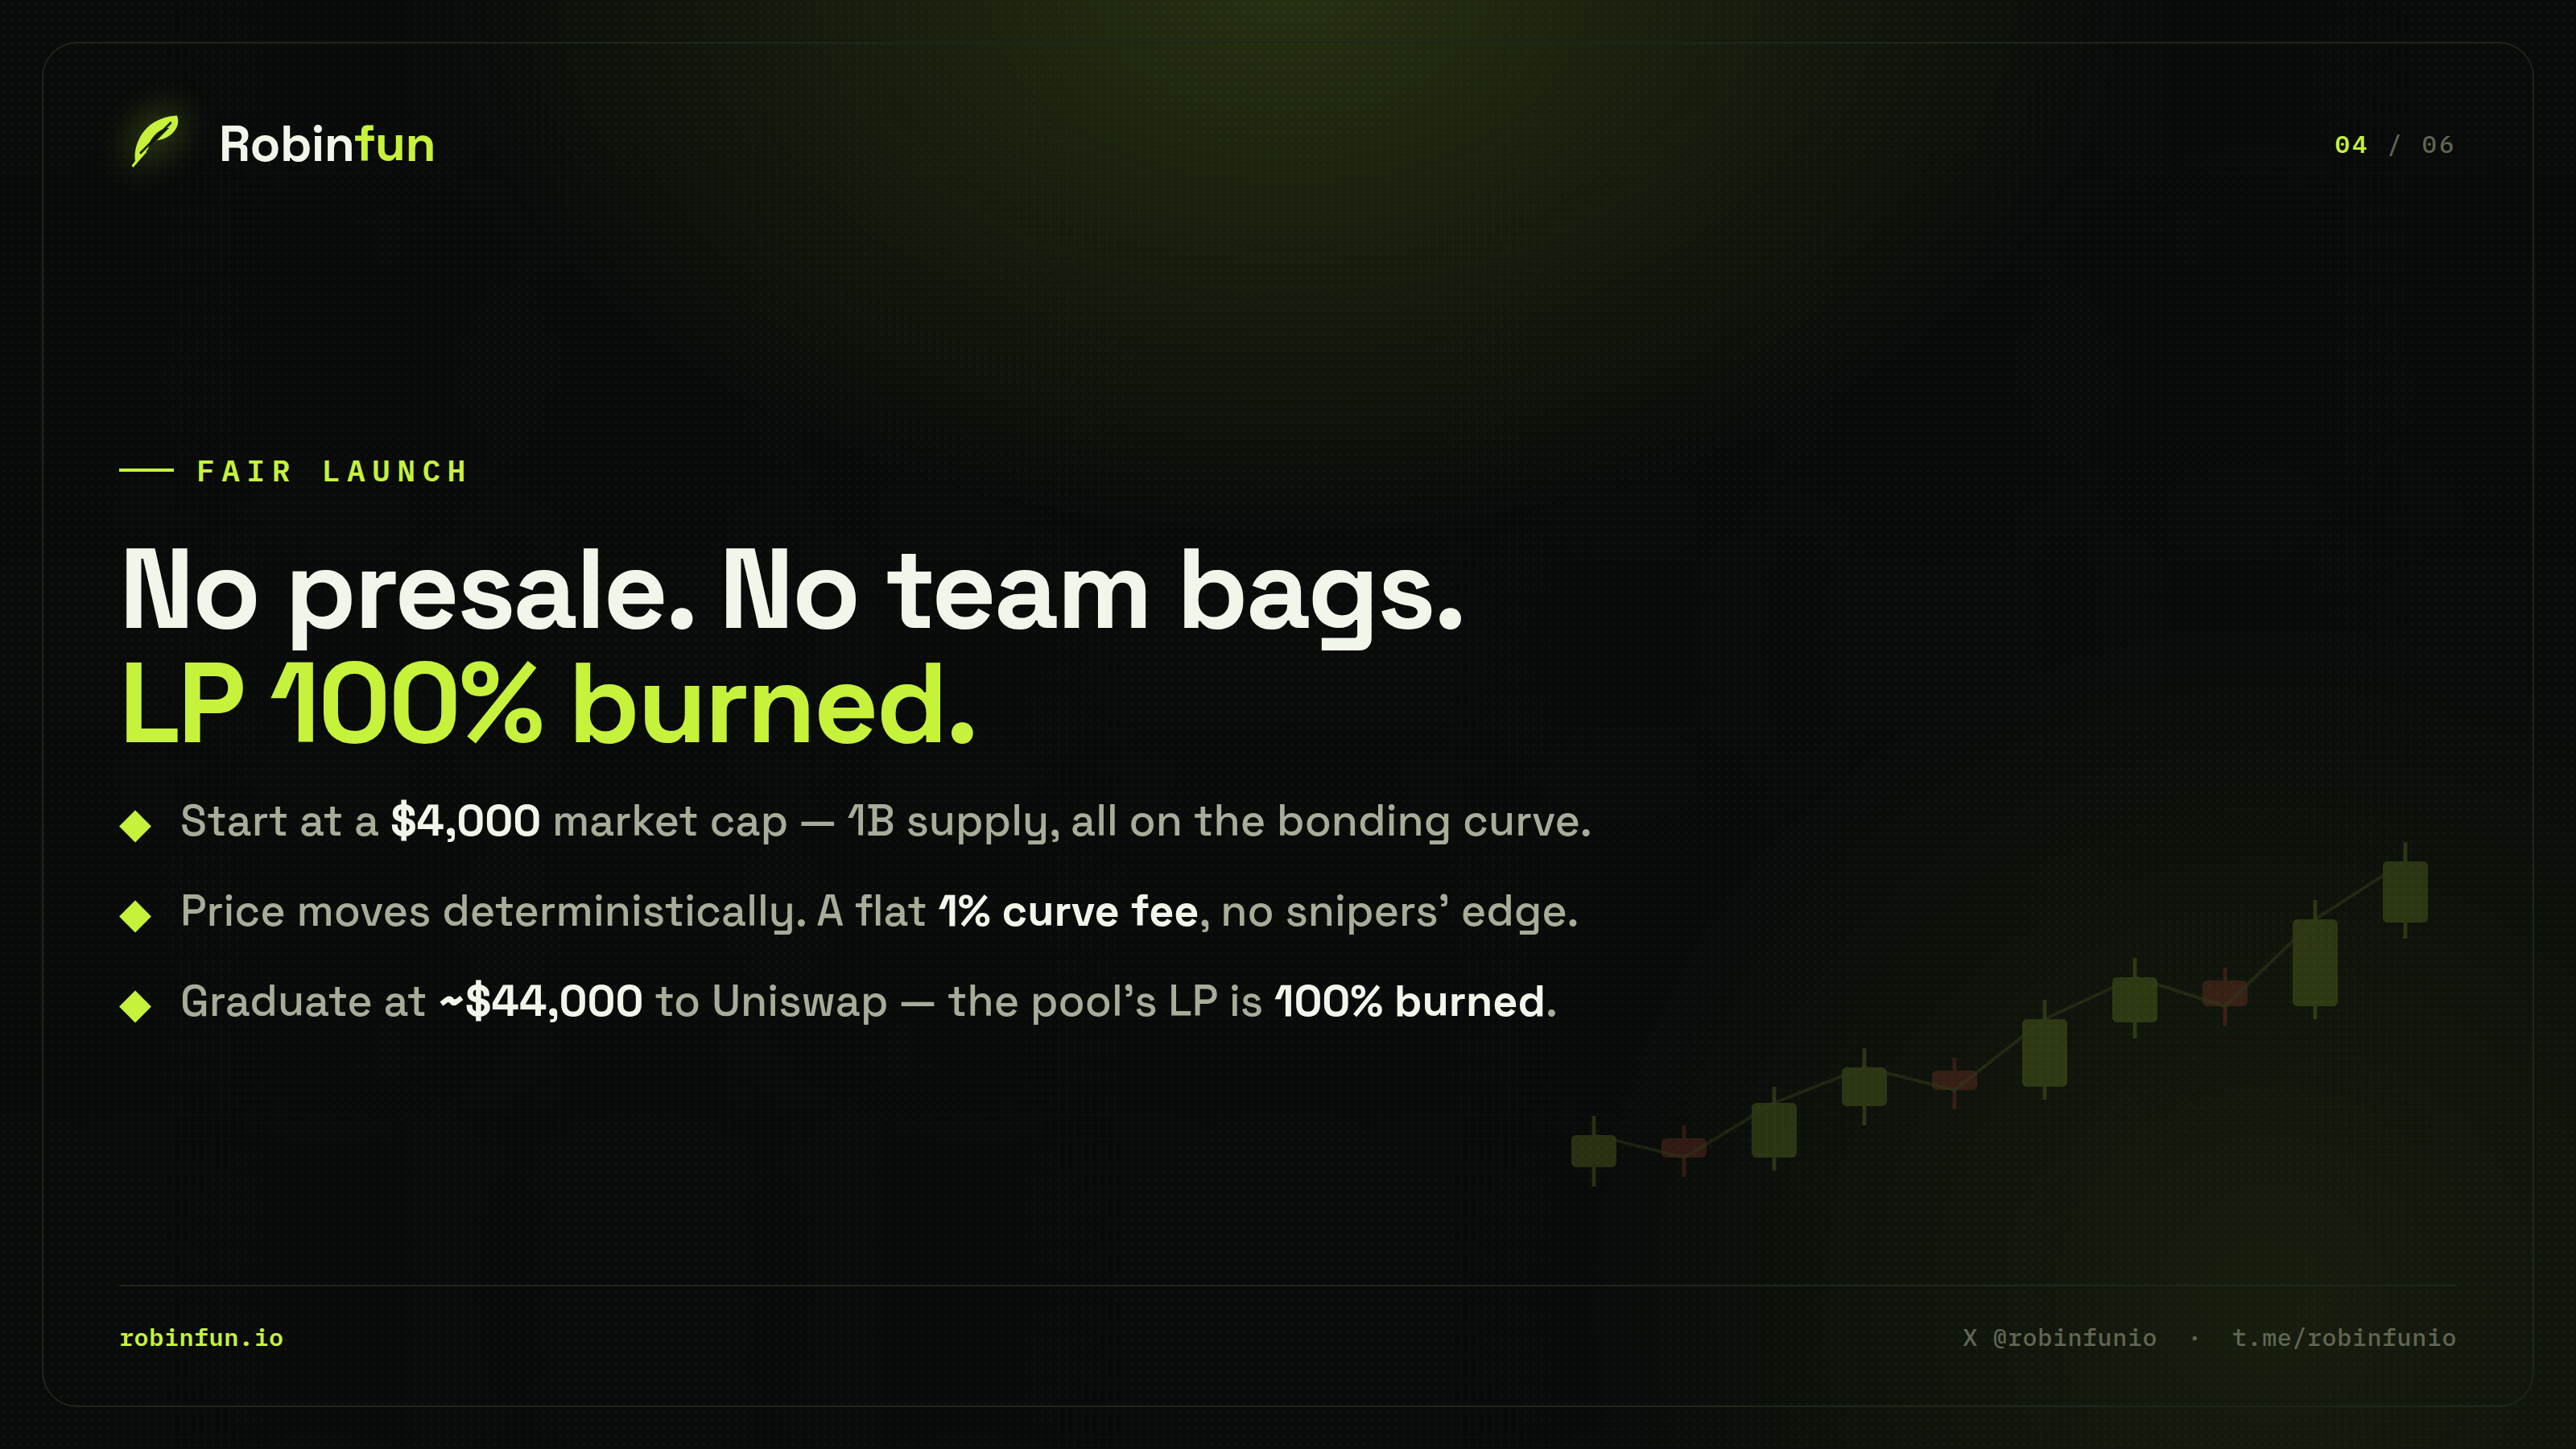
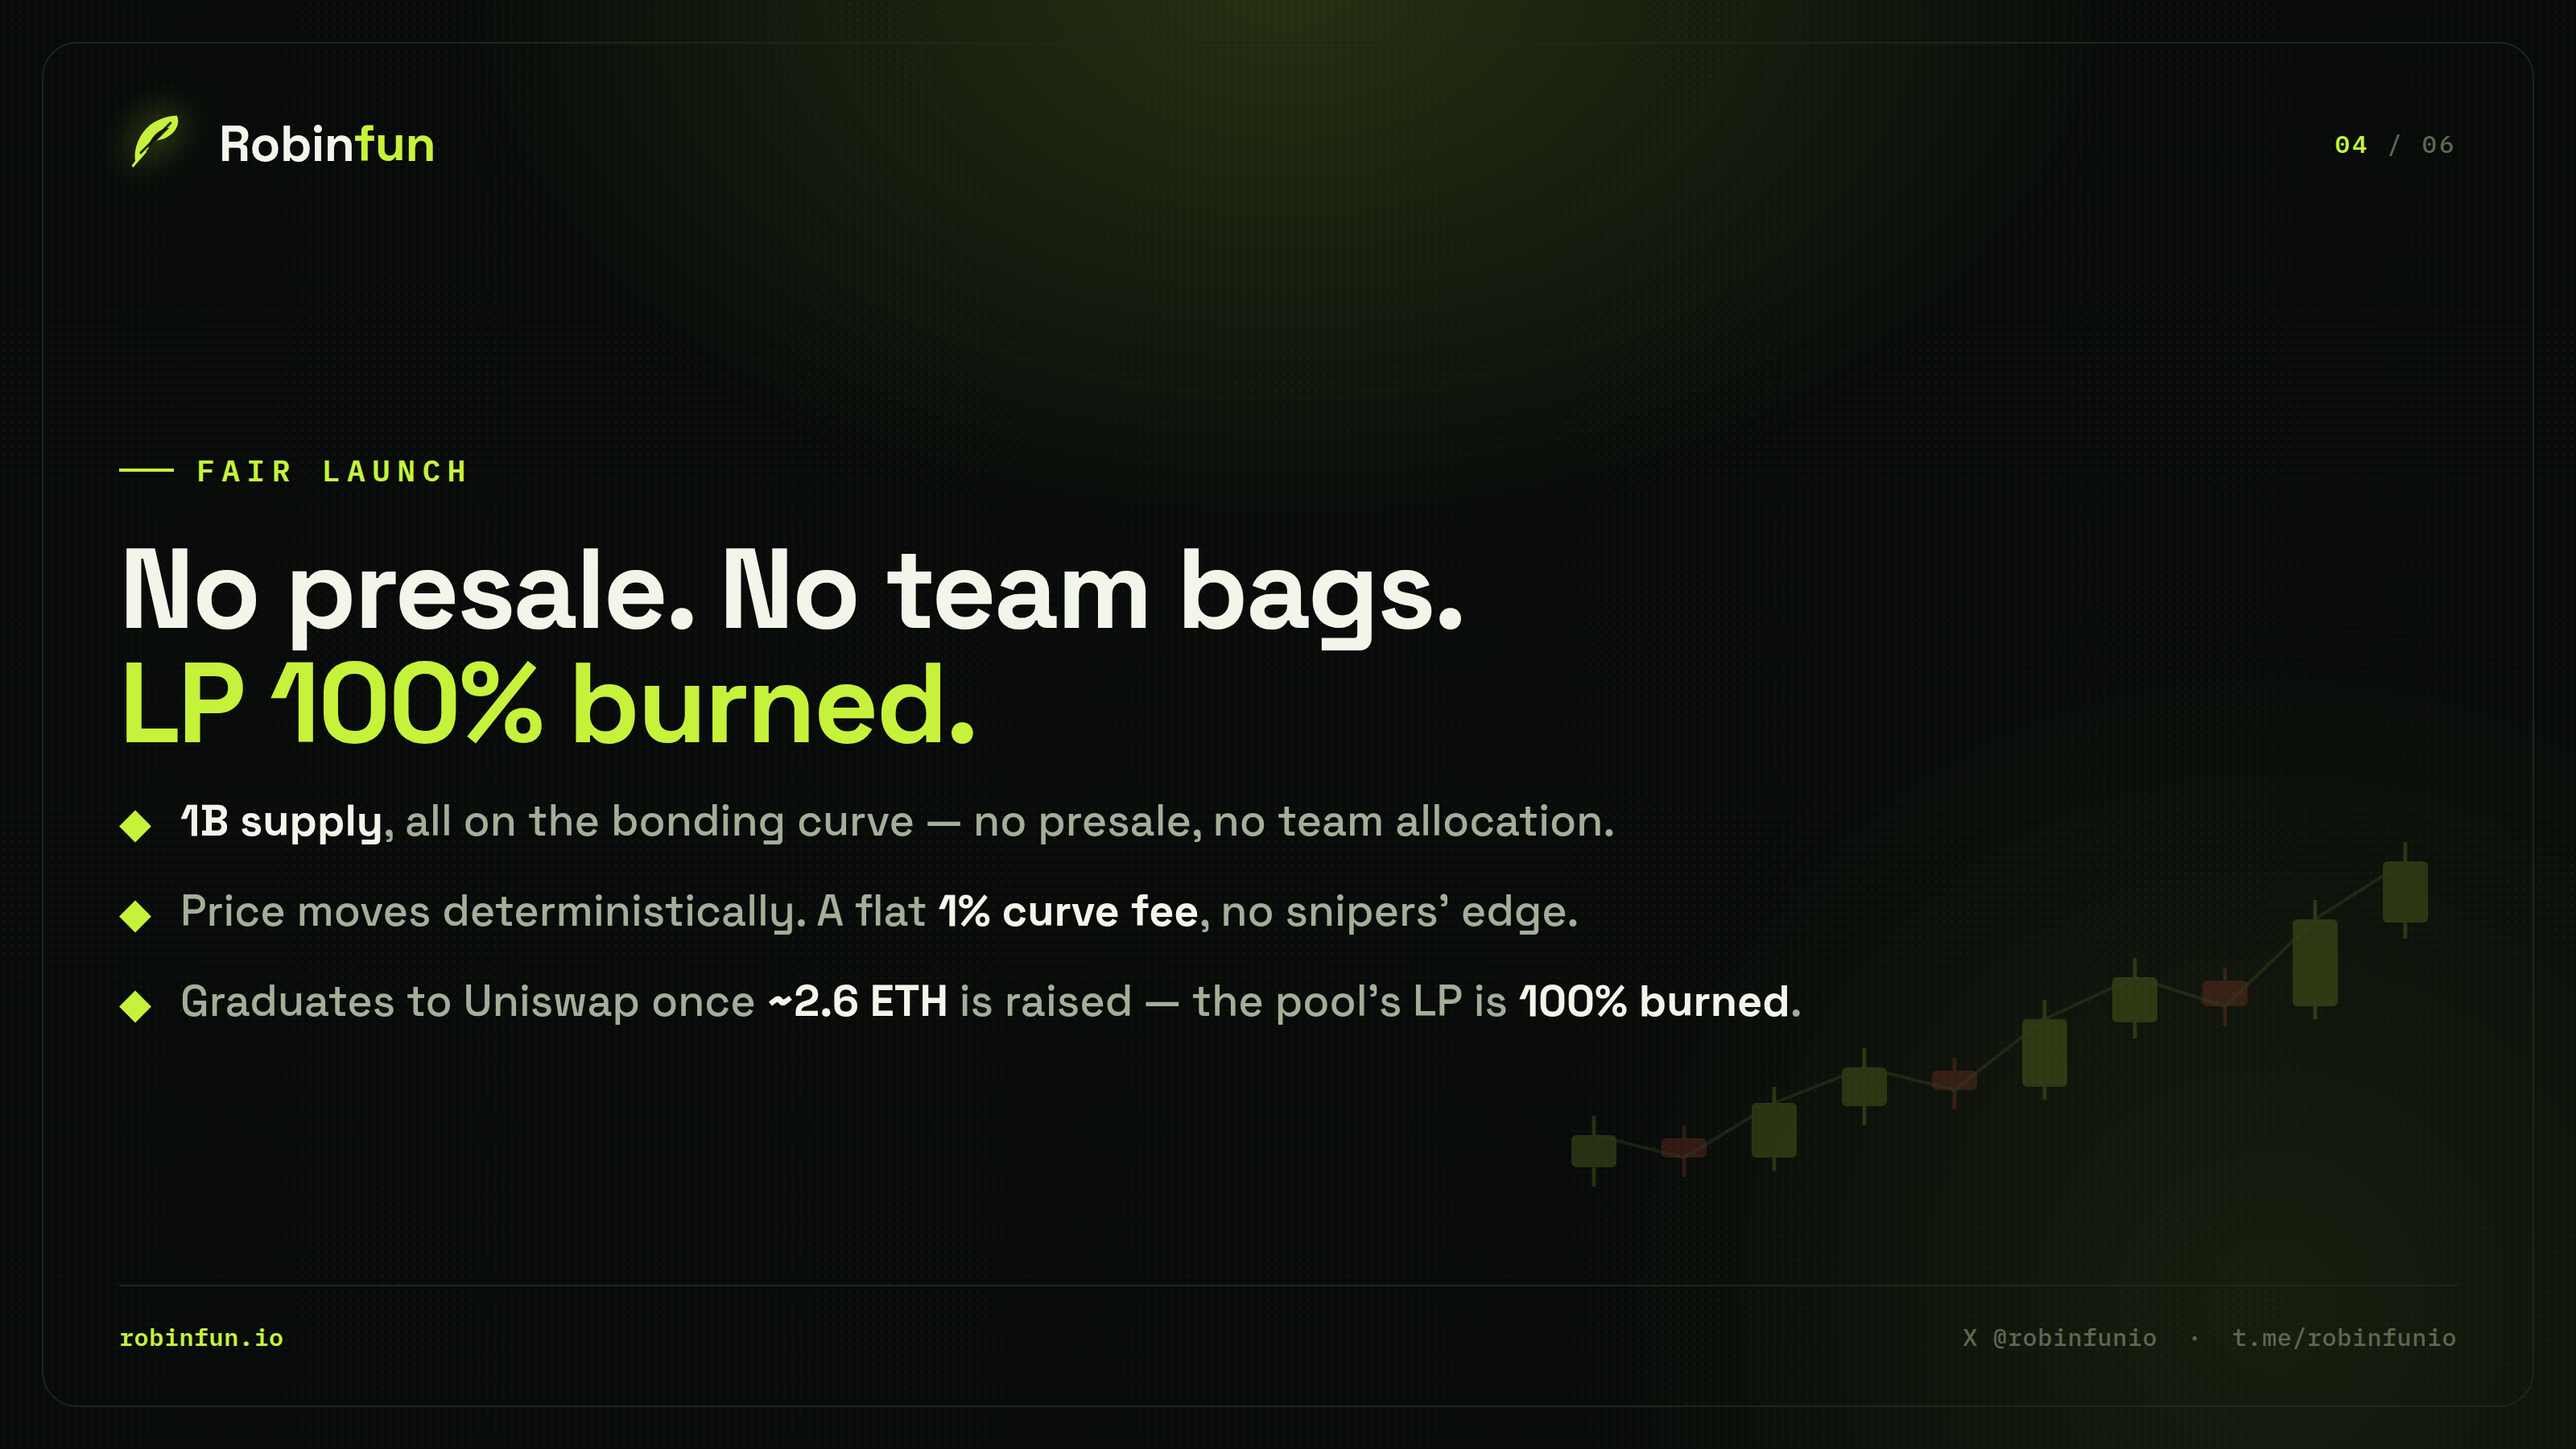
Accuracy + testnet notice + token moderation
- Graduation figures were pegged to ETH=$3850 ($44k mcap). Replace the stale
  hardcoded USD in the hero, whitepaper, token page and banner 04 with the
  price-stable on-chain fact: graduates once ~2.6 ETH is raised. Token page
  grad label now also derives from live GRAD_CAP for simulated tokens.
- Add a dismissible TESTNET notice bar: unaudited contracts, no real value,
  don't send real funds (remembered per browser via localStorage).
- Backend: DELETE /api/tokens/:id (by id / ?by=ticker / ?by=ca), guarded by a
  timing-safe ADMIN_SECRET (disabled unless set). bootstrap-api.sh generates &
  persists the secret and prints the delete command — lets stale testnet
  launches (e.g. the CA-less $TEST) be removed cleanly.

Claude-Session: https://claude.ai/code/session_01VRVtCrjeHnBJGejgbnY13X

Changed region(s): [[0.125, 0.6533, 0.6875, 0.7156], [0.0625, 0.56, 0.625, 0.5911]]

diff --git a/deploy/site/index.html b/deploy/site/index.html
@@ -183,6 +183,17 @@ body.light .stake-orbit circle,body.light .stake-orbit ellipse{stroke:#3C9A1B}
 body.light .stake-orbit text{fill:#3C9A1B}
 
 /* ---------------- ticker tape ---------------- */
+.testnet-bar{display:flex;align-items:center;justify-content:center;gap:11px;position:relative;z-index:3;
+  background:linear-gradient(90deg,rgba(255,91,74,.14),rgba(255,91,74,.07));border-bottom:1px solid rgba(255,91,74,.32);
+  padding:8px 44px 8px 16px;font-family:var(--font-mono);font-size:12px;color:var(--cream-dim);text-align:center;line-height:1.4}
+.testnet-bar b{color:var(--seal-bright);font-weight:700}
+.testnet-bar .tn-txt b:not(:first-child){color:var(--cream)}
+.tn-dot{width:8px;height:8px;border-radius:50%;background:var(--seal);box-shadow:0 0 9px var(--seal);flex-shrink:0;animation:pulse 2s infinite}
+.tn-x{position:absolute;right:12px;top:50%;transform:translateY(-50%);color:var(--cream-mute);font-size:13px;
+  border:none;background:none;cursor:pointer;padding:4px 7px;border-radius:6px}
+.tn-x:hover{color:var(--cream);background:rgba(255,255,255,.06)}
+.testnet-bar.hidden{display:none}
+@media(max-width:640px){.testnet-bar{font-size:11px;padding:7px 40px 7px 12px}}
 .tape{border-bottom:1px solid var(--rule);background:var(--ink-2);overflow:hidden;position:relative;z-index:1}
 .tape-track{display:flex;gap:0;width:max-content;animation:tape 46s linear infinite}
 .tape:hover .tape-track{animation-play-state:paused}
@@ -771,6 +782,13 @@ footer{border-top:1px solid var(--rule);padding:26px 0 34px;margin-top:20px}
 </head>
 <body>
 
+<!-- ======================= TESTNET NOTICE ======================= -->
+<div class="testnet-bar" id="testnetBar">
+  <span class="tn-dot"></span>
+  <span class="tn-txt"><b>TESTNET</b> — Robinfun runs on Robinhood Chain Testnet. Tokens &amp; ETH here have <b>no real value</b>; the contracts are <b>unaudited</b>. Don't send real funds.</span>
+  <button class="tn-x" onclick="dismissTestnet()" aria-label="Dismiss">✕</button>
+</div>
+
 <!-- ======================= TOP BAR ======================= -->
 <header class="topbar">
   <div class="topbar-in">
@@ -872,8 +890,8 @@ footer{border-top:1px solid var(--rule);padding:26px 0 34px;margin-top:20px}
         <div class="stat-block hl"><div class="sb-v gold" id="st-paid">—</div><div class="sb-k">Paid to creators · all-time</div></div>
       </div>
       <p class="hero-desc">
-        Fair-launch bonding curves. Start at a <b>$4k cap</b>, graduate at <b>~$44k</b> into a Uniswap pool with
-        <b>100% of the LP burned</b> — no presale, no team. The twist: set a <span class="lv">creator fee up to 10%</span>,
+        Fair-launch bonding curves. Every token starts on the curve and graduates into a Uniswap pool once
+        <b>~2.6 ETH</b> is raised, with <b>100% of the LP burned</b> — no presale, no team. The twist: set a <span class="lv">creator fee up to 10%</span>,
         and every buy &amp; sell routes fees to your wallet — on the curve, and long after graduation.
       </p>
     </section>
@@ -1138,10 +1156,10 @@ footer{border-top:1px solid var(--rule);padding:26px 0 34px;margin-top:20px}
           <div class="panel-title">Bonding curve</div>
           <div class="curve">
             <div class="curve-bar" style="height:8px"><div class="curve-fill" id="tk-fill" style="width:0%"></div></div>
-            <div class="curve-lbl"><span id="tk-curvelbl">$0 raised</span><span id="tk-gradlbl">graduates at $44k</span></div>
+            <div class="curve-lbl"><span id="tk-curvelbl">0 ETH raised</span><span id="tk-gradlbl">graduates at ~2.6 ETH</span></div>
           </div>
           <p style="font-size:12px;color:var(--cream-dim);margin-top:8px" id="tk-curvedesc">
-            When the cap reaches ~$44k, liquidity deploys to Uniswap and <b style="color:var(--cream)">100% of the LP is burned</b>. The fee keeps working after graduation — it lives in the token contract.
+            Once ~2.6 ETH is raised, liquidity deploys to Uniswap and <b style="color:var(--cream)">100% of the LP is burned</b>. The fee keeps working after graduation — it lives in the token contract.
           </p>
         </div>
 
@@ -1319,9 +1337,9 @@ footer{border-top:1px solid var(--rule);padding:26px 0 34px;margin-top:20px}
       <p data-i18n="docs.p">Pump-style fair launches, plus one thing nobody else gives creators: a revenue stream written into the token itself.</p>
     </div>
     <div class="docs-grid" style="padding-top:20px">
-      <div class="panel doc-card"><div class="n">i.</div><h4>Launch on the curve</h4><p>Every token starts at a <b>$4,000 market cap</b> with 1B supply, all on a bonding curve. No presale, no team bags. Price moves deterministically with buys and sells; a flat <b>1% curve fee</b> funds the platform.</p></div>
+      <div class="panel doc-card"><div class="n">i.</div><h4>Launch on the curve</h4><p>Every token launches with <b>1B supply</b>, all on a bonding curve — no presale, no team bags. Price moves deterministically with buys and sells; a flat <b>1% curve fee</b> funds the platform.</p></div>
       <div class="panel doc-card"><div class="n">ii.</div><h4>Set your fee</h4><p>Choose a buy and sell fee from <b>0–10%</b> at deploy. Every trade routes that share to your dev wallet, auto-harvested to ETH. Rates can be lowered or renounced — <b>never raised</b>. The rate is stamped on the token card for everyone to see.</p></div>
-      <div class="panel doc-card"><div class="n">iii.</div><h4>Graduate & keep earning</h4><p>At <b>~$44,000</b> the curve closes and liquidity moves to Uniswap with <b>100% of the LP burned</b>. Platform creator fees end there on other launchpads — your fee doesn't, because it lives in the contract, not the platform.</p></div>
+      <div class="panel doc-card"><div class="n">iii.</div><h4>Graduate & keep earning</h4><p>Once <b>~2.6 ETH</b> is raised the curve closes and liquidity moves to Uniswap with <b>100% of the LP burned</b>. Platform creator fees end there on other launchpads — your fee doesn't, because it lives in the contract, not the platform.</p></div>
     </div>
     <div class="rules panel panel-pad">
       <div class="panel-title">The fine print, in plain terms</div>
@@ -1793,6 +1811,9 @@ const PATH_TO_PAGE = {'':'home', 'create':'create', 'staking':'stake', 'whitepap
 let pendingTokenId = null;   // deep-linked /token/<id> awaiting the async server load
 let PROFILE_ADDR = null;     // address shown on the profile page (null → own wallet)
 function tokenById(id){ return TOKENS.find(t=>t.id===id); }
+/* Testnet notice — dismissible, remembered per browser. */
+function dismissTestnet(){ const b=document.getElementById('testnetBar'); if(b) b.classList.add('hidden'); try{ localStorage.setItem('rf_testnet_dismissed','1'); }catch(e){} }
+(function(){ try{ if(localStorage.getItem('rf_testnet_dismissed')==='1'){ const b=document.getElementById('testnetBar'); if(b) b.classList.add('hidden'); } }catch(e){} })();
 function setRoute(path, title){
   if(title) document.title = title;
   if(location.protocol === 'file:') return;   // local file preview — History API unavailable
@@ -2123,6 +2144,7 @@ function renderToken(fresh){
   fill.style.width = (t.graduated?100:prog)+'%';
   fill.className = 'curve-fill'+(t.graduated?' grad':'');
   document.getElementById('tk-curvelbl').textContent = t.graduated? 'curve complete' : fmtUsd(t.mcap)+' · '+prog.toFixed(0)+'%';
+  const gl0 = document.getElementById('tk-gradlbl'); if(gl0) gl0.textContent = t.graduated? 'graduated' : 'graduates at ~'+fmtUsd(GRAD_CAP);
   /* fee record */
   document.getElementById('li-buy').textContent = t.buyTax+'%';
   document.getElementById('li-sell').textContent = t.sellTax+'%';

diff --git a/docs/robinfun-prototype.html b/docs/robinfun-prototype.html
@@ -183,6 +183,17 @@ body.light .stake-orbit circle,body.light .stake-orbit ellipse{stroke:#3C9A1B}
 body.light .stake-orbit text{fill:#3C9A1B}
 
 /* ---------------- ticker tape ---------------- */
+.testnet-bar{display:flex;align-items:center;justify-content:center;gap:11px;position:relative;z-index:3;
+  background:linear-gradient(90deg,rgba(255,91,74,.14),rgba(255,91,74,.07));border-bottom:1px solid rgba(255,91,74,.32);
+  padding:8px 44px 8px 16px;font-family:var(--font-mono);font-size:12px;color:var(--cream-dim);text-align:center;line-height:1.4}
+.testnet-bar b{color:var(--seal-bright);font-weight:700}
+.testnet-bar .tn-txt b:not(:first-child){color:var(--cream)}
+.tn-dot{width:8px;height:8px;border-radius:50%;background:var(--seal);box-shadow:0 0 9px var(--seal);flex-shrink:0;animation:pulse 2s infinite}
+.tn-x{position:absolute;right:12px;top:50%;transform:translateY(-50%);color:var(--cream-mute);font-size:13px;
+  border:none;background:none;cursor:pointer;padding:4px 7px;border-radius:6px}
+.tn-x:hover{color:var(--cream);background:rgba(255,255,255,.06)}
+.testnet-bar.hidden{display:none}
+@media(max-width:640px){.testnet-bar{font-size:11px;padding:7px 40px 7px 12px}}
 .tape{border-bottom:1px solid var(--rule);background:var(--ink-2);overflow:hidden;position:relative;z-index:1}
 .tape-track{display:flex;gap:0;width:max-content;animation:tape 46s linear infinite}
 .tape:hover .tape-track{animation-play-state:paused}
@@ -771,6 +782,13 @@ footer{border-top:1px solid var(--rule);padding:26px 0 34px;margin-top:20px}
 </head>
 <body>
 
+<!-- ======================= TESTNET NOTICE ======================= -->
+<div class="testnet-bar" id="testnetBar">
+  <span class="tn-dot"></span>
+  <span class="tn-txt"><b>TESTNET</b> — Robinfun runs on Robinhood Chain Testnet. Tokens &amp; ETH here have <b>no real value</b>; the contracts are <b>unaudited</b>. Don't send real funds.</span>
+  <button class="tn-x" onclick="dismissTestnet()" aria-label="Dismiss">✕</button>
+</div>
+
 <!-- ======================= TOP BAR ======================= -->
 <header class="topbar">
   <div class="topbar-in">
@@ -872,8 +890,8 @@ footer{border-top:1px solid var(--rule);padding:26px 0 34px;margin-top:20px}
         <div class="stat-block hl"><div class="sb-v gold" id="st-paid">—</div><div class="sb-k">Paid to creators · all-time</div></div>
       </div>
       <p class="hero-desc">
-        Fair-launch bonding curves. Start at a <b>$4k cap</b>, graduate at <b>~$44k</b> into a Uniswap pool with
-        <b>100% of the LP burned</b> — no presale, no team. The twist: set a <span class="lv">creator fee up to 10%</span>,
+        Fair-launch bonding curves. Every token starts on the curve and graduates into a Uniswap pool once
+        <b>~2.6 ETH</b> is raised, with <b>100% of the LP burned</b> — no presale, no team. The twist: set a <span class="lv">creator fee up to 10%</span>,
         and every buy &amp; sell routes fees to your wallet — on the curve, and long after graduation.
       </p>
     </section>
@@ -1138,10 +1156,10 @@ footer{border-top:1px solid var(--rule);padding:26px 0 34px;margin-top:20px}
           <div class="panel-title">Bonding curve</div>
           <div class="curve">
             <div class="curve-bar" style="height:8px"><div class="curve-fill" id="tk-fill" style="width:0%"></div></div>
-            <div class="curve-lbl"><span id="tk-curvelbl">$0 raised</span><span id="tk-gradlbl">graduates at $44k</span></div>
+            <div class="curve-lbl"><span id="tk-curvelbl">0 ETH raised</span><span id="tk-gradlbl">graduates at ~2.6 ETH</span></div>
           </div>
           <p style="font-size:12px;color:var(--cream-dim);margin-top:8px" id="tk-curvedesc">
-            When the cap reaches ~$44k, liquidity deploys to Uniswap and <b style="color:var(--cream)">100% of the LP is burned</b>. The fee keeps working after graduation — it lives in the token contract.
+            Once ~2.6 ETH is raised, liquidity deploys to Uniswap and <b style="color:var(--cream)">100% of the LP is burned</b>. The fee keeps working after graduation — it lives in the token contract.
           </p>
         </div>
 
@@ -1319,9 +1337,9 @@ footer{border-top:1px solid var(--rule);padding:26px 0 34px;margin-top:20px}
       <p data-i18n="docs.p">Pump-style fair launches, plus one thing nobody else gives creators: a revenue stream written into the token itself.</p>
     </div>
     <div class="docs-grid" style="padding-top:20px">
-      <div class="panel doc-card"><div class="n">i.</div><h4>Launch on the curve</h4><p>Every token starts at a <b>$4,000 market cap</b> with 1B supply, all on a bonding curve. No presale, no team bags. Price moves deterministically with buys and sells; a flat <b>1% curve fee</b> funds the platform.</p></div>
+      <div class="panel doc-card"><div class="n">i.</div><h4>Launch on the curve</h4><p>Every token launches with <b>1B supply</b>, all on a bonding curve — no presale, no team bags. Price moves deterministically with buys and sells; a flat <b>1% curve fee</b> funds the platform.</p></div>
       <div class="panel doc-card"><div class="n">ii.</div><h4>Set your fee</h4><p>Choose a buy and sell fee from <b>0–10%</b> at deploy. Every trade routes that share to your dev wallet, auto-harvested to ETH. Rates can be lowered or renounced — <b>never raised</b>. The rate is stamped on the token card for everyone to see.</p></div>
-      <div class="panel doc-card"><div class="n">iii.</div><h4>Graduate & keep earning</h4><p>At <b>~$44,000</b> the curve closes and liquidity moves to Uniswap with <b>100% of the LP burned</b>. Platform creator fees end there on other launchpads — your fee doesn't, because it lives in the contract, not the platform.</p></div>
+      <div class="panel doc-card"><div class="n">iii.</div><h4>Graduate & keep earning</h4><p>Once <b>~2.6 ETH</b> is raised the curve closes and liquidity moves to Uniswap with <b>100% of the LP burned</b>. Platform creator fees end there on other launchpads — your fee doesn't, because it lives in the contract, not the platform.</p></div>
     </div>
     <div class="rules panel panel-pad">
       <div class="panel-title">The fine print, in plain terms</div>
@@ -1793,6 +1811,9 @@ const PATH_TO_PAGE = {'':'home', 'create':'create', 'staking':'stake', 'whitepap
 let pendingTokenId = null;   // deep-linked /token/<id> awaiting the async server load
 let PROFILE_ADDR = null;     // address shown on the profile page (null → own wallet)
 function tokenById(id){ return TOKENS.find(t=>t.id===id); }
+/* Testnet notice — dismissible, remembered per browser. */
+function dismissTestnet(){ const b=document.getElementById('testnetBar'); if(b) b.classList.add('hidden'); try{ localStorage.setItem('rf_testnet_dismissed','1'); }catch(e){} }
+(function(){ try{ if(localStorage.getItem('rf_testnet_dismissed')==='1'){ const b=document.getElementById('testnetBar'); if(b) b.classList.add('hidden'); } }catch(e){} })();
 function setRoute(path, title){
   if(title) document.title = title;
   if(location.protocol === 'file:') return;   // local file preview — History API unavailable
@@ -2123,6 +2144,7 @@ function renderToken(fresh){
   fill.style.width = (t.graduated?100:prog)+'%';
   fill.className = 'curve-fill'+(t.graduated?' grad':'');
   document.getElementById('tk-curvelbl').textContent = t.graduated? 'curve complete' : fmtUsd(t.mcap)+' · '+prog.toFixed(0)+'%';
+  const gl0 = document.getElementById('tk-gradlbl'); if(gl0) gl0.textContent = t.graduated? 'graduated' : 'graduates at ~'+fmtUsd(GRAD_CAP);
   /* fee record */
   document.getElementById('li-buy').textContent = t.buyTax+'%';
   document.getElementById('li-sell').textContent = t.sellTax+'%';

diff --git a/server/index.js b/server/index.js
@@ -138,6 +138,32 @@ app.post('/api/tokens', rateLimit, (req, res) => {
   }
 });
 
+// Moderation: delete a token (e.g. a stale/duplicate testnet launch).
+// Guarded by a shared admin secret so only the operator can call it. If
+// ADMIN_SECRET is unset the endpoint stays disabled (503) — safe by default.
+// Match by record id, by ticker (?by=ticker), or by contract address (?by=ca).
+app.delete('/api/tokens/:id', (req, res) => {
+  const secret = process.env.ADMIN_SECRET || '';
+  if (!secret) return res.status(503).json({ error: 'deletion disabled (set ADMIN_SECRET)' });
+  const given = req.get('x-admin-secret') || '';
+  if (given.length !== secret.length ||
+      !crypto.timingSafeEqual(Buffer.from(given), Buffer.from(secret))) {
+    return res.status(403).json({ error: 'forbidden' });
+  }
+  const key = String(req.params.id).trim();
+  const by = String(req.query.by || 'id').toLowerCase();
+  const match = (t) =>
+    by === 'ticker' ? String(t.ticker).toUpperCase() === key.toUpperCase() :
+    by === 'ca'     ? String(t.ca || '').toLowerCase() === key.toLowerCase() :
+                      t.id === key;
+  const before = db.tokens.length;
+  const removed = db.tokens.filter(match);
+  db.tokens = db.tokens.filter((t) => !match(t));
+  if (db.tokens.length === before) return res.status(404).json({ error: 'not found' });
+  save(db);
+  res.json({ ok: true, removed: removed.length, remaining: db.tokens.length });
+});
+
 // Dev convenience: serve the static site + uploads same-origin so the frontend
 // can be tested end-to-end locally. In production nginx serves these instead.
 if (SITE_DIR) {

diff --git a/brand/x-thread/gen_banners.py b/brand/x-thread/gen_banners.py
@@ -174,9 +174,9 @@ banners[3] = frame(3, eb("The Robinfun edge"),
 banners[4] = frame(4, eb("Fair launch"),
   '''<h1 style="font-size:70px;max-width:1200px">No presale. No team bags.<br><span class="lime">LP 100% burned.</span></h1>
      <div class="rows">
-       <div class="row"><span class="tk">◆</span><span>Start at a <b>$4,000</b> market cap — 1B supply, all on the bonding curve.</span></div>
+       <div class="row"><span class="tk">◆</span><span><b>1B supply</b>, all on the bonding curve — no presale, no team allocation.</span></div>
        <div class="row"><span class="tk">◆</span><span>Price moves deterministically. A flat <b>1% curve fee</b>, no snipers' edge.</span></div>
-       <div class="row"><span class="tk">◆</span><span>Graduate at <b>~$44,000</b> to Uniswap — the pool's LP is <b>100% burned</b>.</span></div>
+       <div class="row"><span class="tk">◆</span><span>Graduates to Uniswap once <b>~2.6 ETH</b> is raised — the pool's LP is <b>100% burned</b>.</span></div>
      </div>''')
 
 # 05 — SAFETY / WRITTEN INTO THE CONTRACT

diff --git a/brand/x-thread/README.md b/brand/x-thread/README.md
@@ -25,7 +25,7 @@ footer on every frame — so posted in order they read as one connected thread.
 
 **4 · Fair by design**
 > No presale. No team bags.
-> Start at a $4k cap · 1B supply all on the curve · graduate at ~$44k to Uniswap with the LP 100% burned.
+> 1B supply all on the curve · graduates to Uniswap once ~2.6 ETH is raised · LP 100% burned.
 > Deterministic price, flat 1% curve fee — no snipers' edge.
 
 **5 · Safety**
@@ -37,6 +37,12 @@ footer on every frame — so posted in order they read as one connected thread.
 > Fair curves. A fee that pays you forever.
 > Launch on Robinfun → robinfun.io
 > X @robinfunio · TG t.me/robinfunio
+
+## Testnet disclaimer (pin under the thread / put in bio)
+
+> ⚠️ Robinfun is live on **Robinhood Chain Testnet** right now. Tokens and ETH
+> here have no real value and the contracts are unaudited — it's for testing the
+> product, not for real trades. Mainnet comes after a third-party audit.
 
 ## How they were generated
 